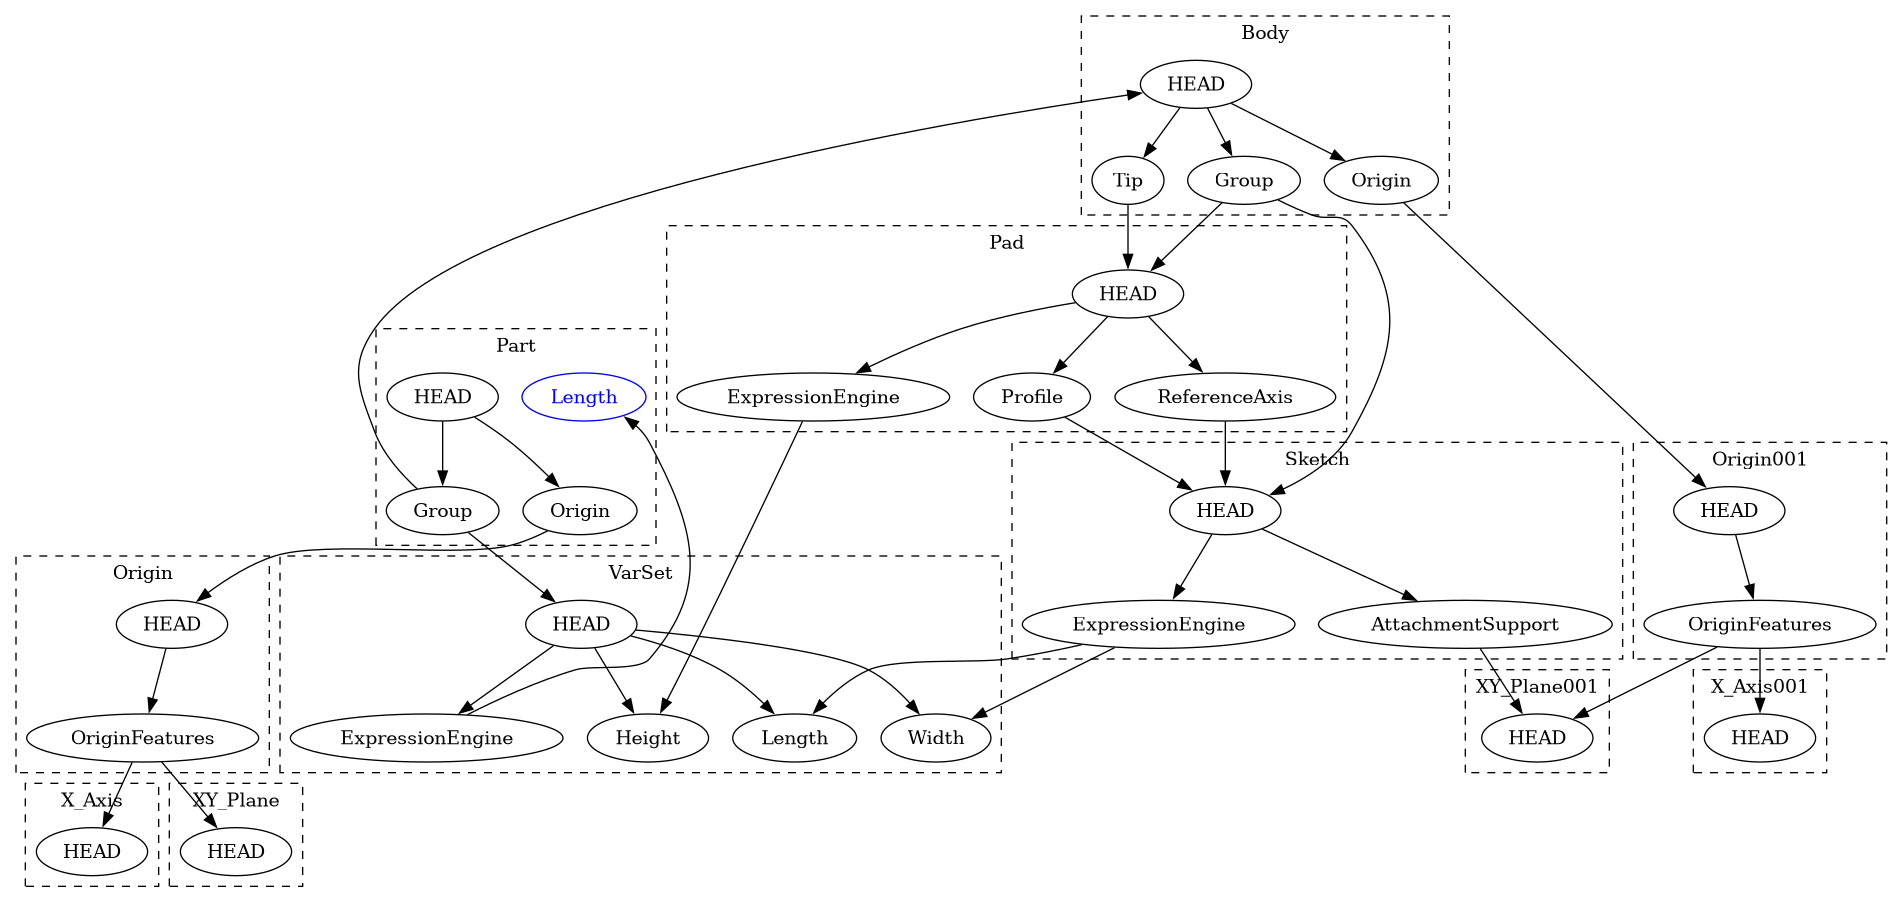
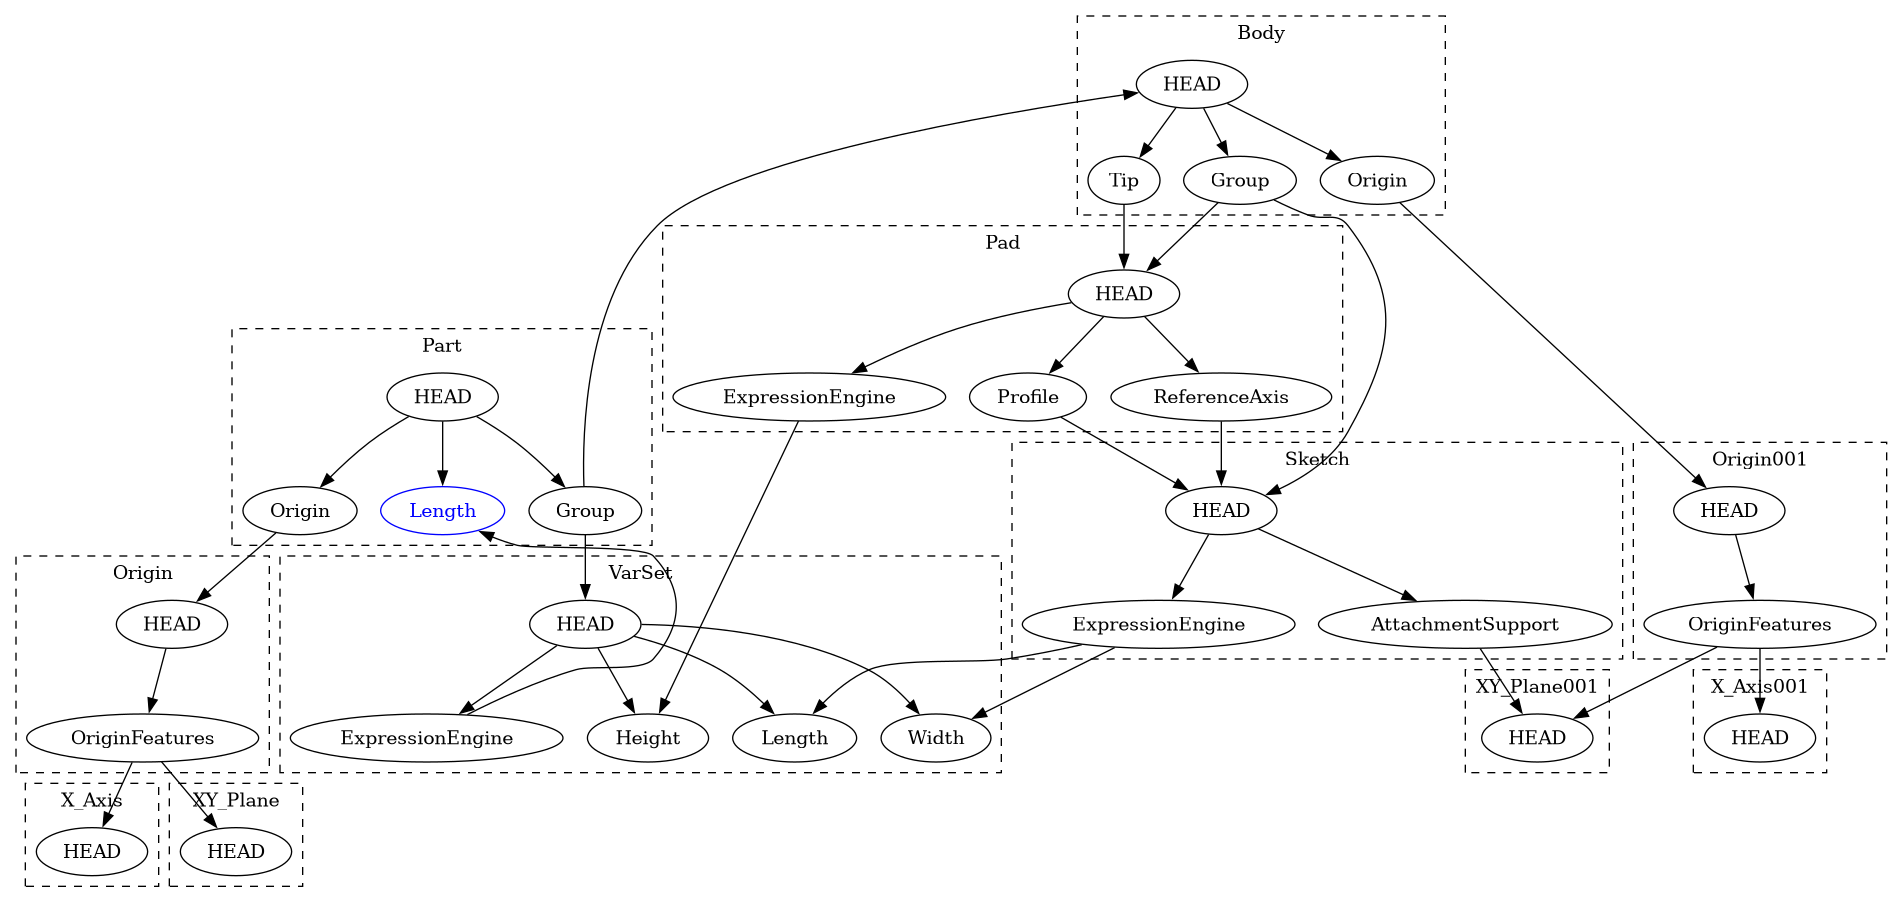
Include separation of concerns input/exposed props
A point of discussion was whether exposed properties should have two
roles: 1) allowing references from a dependent object and 2) defining
the interface for creating variants.  The overall consensus was that we
should separate these concerns.  This update reflects that by
introducing "true" input properties.

diff --git a/FEPs/FEP-0010-variant-parts/README.md b/FEPs/FEP-0010-variant-parts/README.md
@@ -5,9 +5,9 @@
 | Type           | Core Change                                                                                                      |
 | Status         | Proposed                                                                                                         |
 | Author(s)      | Pieter Hijma @pieterhijma                                                                                        |
-| Version        | 1.0                                                                                                              |
+| Version        | 1.1                                                                                                              |
 | Created        | 2025-09-23                                                                                                       |
-| Updated        | 2025-10-10                                                                                                       |
+| Updated        | 2025-11-08                                                                                                       |
 | Discussion     | [💬 Discussion FEP-0010: Variant Parts](https://github.com/FreeCAD/FreeCAD-Enhancement-Proposals/discussions/31) |
 | Implementation | n/a                                                                                                              |
 
@@ -30,7 +30,7 @@ parametric part with the following properties:
 
 In FreeCAD, it is virtually impossible to create parts with these properties.
 As a result, in FreeCAD, parametric design is limited.  It is not possible to
-reuse or exchange parts independently, and as such, parametric parts are not
+ reuse or exchange parts independently, and as such, parametric parts are not
 modular (see these videos [[1](#ref1)]).  This modularity in parametric designs
 is important because since FreeCAD is an open source application, seamless
 sharing and exchange of parts should be central to FreeCAD's mission.
@@ -166,8 +166,8 @@ property accesses and redirects these to temporary data structures.  A benefit
 of this system is that it gives FreeCAD support for variants at a very low
 level and only one mechanism is needed.  Additionally, this system has the
 potential to be used for concurrency because reads and writes can be captured
-temporarily.  A drawback of this approach is that each property type with each
-property access needs to be touched.
+temporarily.  A drawback of this approach is that the code of each property
+type with each property access needs to be touched.
 
 ### Chosen directions
 
@@ -199,9 +199,9 @@ maintaining copies are avoided.
 
 ## Specification
 
-In this section we provide the specification for variant parts with exposed
-properties, property intercepts, and providing the full subtree.  The exposed
-properties have the following goals:
+In this section we provide the specification for variant parts with
+fine-grained dependency checking, property intercepts, and providing the full
+subtree.  Fine-grained dependency checking has the following goals:
 1. Allow users to avoid cyclic dependencies without requiring the use of hidden
    references.
 2. Capture the design intent for parametric design.
@@ -210,7 +210,7 @@ properties have the following goals:
    some cases.
 
 Property intercepts allows us to act at a very low level of property access,
-ensuring that variant parts is supported by FreeCAD's core and avoiding full
+ensuring that variant parts are supported by FreeCAD's core and avoiding full
 copies that require complex administration.
 
 Subtree-based variants allow users to access the full subtree of the variants.
@@ -223,37 +223,42 @@ finally we discuss backward compatibility issues.
 
 ### User Perspective
 
-The user obtains a new type of property, namely **exposed properties**,
-properties that have a status flag "exposed".  Marking properties as exposed in
+The user obtains two new property types, namely **input properties**,
+properties that have a status flag "input" and **exposed properties**,
+properties that have a status flag "exposed".  Marking properties as input in
 obj $o$ ensures that these properties can be referenced within objects that are
-dependent on $o$ without introducing cyclic dependencies.  You can consider
-those properties to be outside of the object.  This eliminates the use of
-hidden references for the purpose of creating variants.
+dependent on $o$ without introducing cyclic dependencies.  Input properties
+should not be modified during recomputation of a document object.  Having input
+properties eliminates the need to create hidden references for the purpose of
+creating variants.
 
-The set of exposed properties define what I call the **Application Geometry Interface** [[3](#ref3)],
-the interface for geometry that defines how a part should be
-parameterized.  The Application Geometry Interface captures design intent in
-the context of parametric design.
+Only input properties can be exposed properties.  The set of exposed properties
+define the **Exposed Property Interface**, properties that define how a part
+should be parameterized for variants (previously called "Application Geometry
+Interface" [[3](#ref3)]).  The Exposed Property Interface captures design
+intent in the context of parametric design.
 
 In addition, links become aware of exposed properties.  The exposed properties
 are incorporated in the link and marked clearly as exposed.  Changing one of
 the exposed properties automatically creates a variant of the object that is
-linked to.
+linked to and only this variant will be changed.  In contrast, changing an
+input property of the variant or any other internal properties will change all
+variants of that part.
 
 Finally, the user will experience improved recomputes where a change of
 property $p$ in an object $o$ does not trigger recomputes for all objects that
 depend on $o$, but only the ones that depend on $p$:
 
-Given $n$ objects $o_1, \dots, o_n$ that depend an object $q$ by means of
+Given $n$ objects $o_1, \dots, o_n$ that depend on object $q$ by means of
 properties $p_1, \dots, p_n$ in $q$ where $x \in \lbrace 1,2,\dots,n \rbrace$ and
 $o_x$ only refers to $p_x$ and $p_x$ is only referred to by $o_x$, then
-changing one property $p_x$ of the set $\lbrace p_1, \dots, p_n \rbrace$ only recomputes $o_x$.
+changing a property $p_x$ of the set $\lbrace p_1, \dots, p_n \rbrace$ only recomputes $o_x$.
 
 ### Developer perspective
 
 From the viewpoint of the developer, dependency checking is changed, FreeCAD
-acquires exposed properties, a new extension to document objects is introduced,
-and the link code is adapted to exposed properties.
+acquires input and exposed properties, a new extension to document objects is
+introduced, and the link code is adapted to exposed properties.
 
 #### Dependency checking
 
@@ -277,33 +282,29 @@ is defined by the following relation:
    is a property of $o$, then $(x, y) \in E$ with the following exceptions:
    1. $y$ is an output property.
 3. If $x \in V$ and $y \in V$, $x = \text{ HEAD}$, $x$ represents object $o$,
-   and $y$ is an output property $o$, then $(y, x) in E$.
+   and $y$ is an output property $o$, then $(y, x) \in E$.
 
 In FreeCAD $G$ should be acyclic to be able to do recomputes and a cycle is
 considered an erroneous state.
 
-#### Exposed properties
+#### Input properties
 
-Properties obtain a new status flag "Exposed" which indicates that a property
-can be considered outside of the object it is defined in.  To define this, we
-add a second exception to clause 2. of the $E$ relation defined above:
-ii. $y$ is an exposed property.
+Properties obtain a new status flag "Input" which indicates that a property
+only serves as input to the document object and should not be modified in the
+recompute phase.  More precisely, in the recompute phase, an input property may
+be written by the expression engine execute phase to make sure that the input
+properties have the correct value if they are based on expressions.  Then in
+subsequent phases, input properties must not be written, that is, (1) in the
+recompute phase of the document object that includes the execute phase and (2)
+in the second expression engine execute phase that updates the values of the
+output properties.
 
-Although this is sufficient to properly define the relation for exposed
-properties, for the sake of clarity we can explicitly add the following clause
-without changing the relation:
-
-If $x \in V$ and $y \in V$, $x = \text{ HEAD}$, $x$ represents object $o$, $y$
-is a property of $o$, and $y$ is exposed, then $(x, y) \notin E$.  This allows
-objects that depend on $o$ to link to $y$ without introducing cycles.
-
-An example of a dependency graph is listed below from [[4](#ref4)]: The blue
-property is an exposed property and since HEAD does not have an edge to
-property Length, it is possible to link to Length from VarSet which depends on
-Part.
+An example of a dependency graph is listed below: The blue property is an input
+property and since HEAD has an edge to property Length of which we know for
+certain that Length cannot be modified by HEAD (so Length does not depend on
+HEAD), it is possible to link to Length from VarSet which depends on Part.
 
 ![](./assets/FEP-0010-property-deps.png)
-
 
 #### Variant Extension
 
@@ -380,13 +381,13 @@ An early specification with implementation exists for the idea of variant
 parts.  The **specification** focused on VarSets having a central role in
 defining the application programming interface in combination with `App::Part`.
 Both these objects would become "special" to support variants.  The
-specification of this is listed in issue #12531 [[5](#ref5)].  This idea is
+specification of this is listed in issue #12531 [[4](#ref4)].  This idea is
 rejected because it is not general enough.  Only `App::Part` objects with an
 exposed VarSet would become variants, while there are many other valid objects
 that may need to be variants.  An example is a simple cube that cannot contain
 a VarSet inside.
 
-The **implementation** is proposed in PR #12532 [[6](#ref6)].  This
+The **implementation** is proposed in PR #12532 [[5](#ref5)].  This
 implementation has been built on top of the existing logic of hidden
 references, rewriting expressions, and redirecting property access with adding
 special cases to object identifiers.  This implementation brought to light that
@@ -398,19 +399,19 @@ limitations, this implementation is rejected.
 ## Implementation
 
 A proof-of-concept has been created in the context of the FPA program "Research
-Variant Parts", the results of which are listed on the forum [[7](#ref7)].
+Variant Parts", the results of which are listed on the forum [[6](#ref6)].
 This proposal is a direct result of that project.  Other than what is proposed
-here, the proof-of-concept in PRs #18412, #19733, and #19735 [[8](#ref8),
-[9](#ref9), [10](#ref10)] has:
+here, the proof-of-concept in PRs #18412, #19733, and #19735 [[7](#ref7),
+[8](#ref8), [9](#ref9)] has:
 - the current dependency check with special cases as opposed to fine-grained dependency checks,
 - shape-based variants instead of subtree-based variants, and
 - property intercept has only been partially implemented (not for all
   properties).
 
 The implementation of this proposal will happen in two phases.  The first phase
-will focus on fine-grained recomputation and adding exposed properties.  The
-second phase will focus on adding property intercept, the variant extension,
-and adapting `App::Link`.
+will focus on fine-grained recomputation and adding input properties.  The
+second phase will focus on adding property intercept, exposed properties, the
+variant extension, and adapting `App::Link`.
 
 ### Phase 1: Fine-grained recomputation
 
@@ -418,24 +419,25 @@ The implementation will start with a simple test with a VarSet that has two
 properties `sizeCube1` and `sizeCube2` that drive the sizes of two simple cubes
 respectively.  Then changing the property `sizeCube1` should only cause the
 first cube to be marked for recomputation and not the second.  This test would
-currently fail in FreeCAD.  As of now, FreeCAD has not tests for recomputation,
+currently fail in FreeCAD.  As of now, FreeCAD has few tests for recomputation,
 but this implementation will provide a test suite for recomputation and
 dependency checking.
 
-For exposed properties, the flag `App::Property::Status::User4` will be changed
-to `App::Property::Status::Exposed`.  Please note that `User1`, `User2`, and
-`User3` are already in use for various purposes.  The exposed properties will
-be incorporated into the recomputation logic and tests will be provided for
-this as well.
+For input properties, the flag `App::Property::Status::User4` will be changed
+to `App::Property::Status::Input`.  Please note that `User1`, `User2`, and
+`User3` are already in use for various purposes.  The input properties will be
+incorporated into the recomputation logic and tests will be provided for this
+as well.
 
 ### Phase 2: Adding variant links
 
 The second phase will add the logic for acquiring variant links.  This is
-composed of adding property intercept, the variant extension, and incorporating
-the variant extension into `App::Link`.
+composed of adding property intercept, the variant extension, introducing a
+flag `App::Property::Status::Exposed` and incorporating the variant extension
+into `App::Link`.
 
 More background on **intercepting property access** can be found on the forum
-[[11](#ref11)].  A typical property access for a float property is listed below:
+[[10](#ref10)].  A typical property access for a float property is listed below:
 
 ```c++
 void PropertyFloat::setValue(double lValue)
@@ -480,7 +482,7 @@ change is local to the FreeCAD source and will work for any document object
 defined in any external workbench.
 
 The **variant extension** will be roughly like the one introduced in PR #19733
-[[9](#ref9)] in the form of `App::VariantExtension`.  On execution of a variant
+[[8](#ref8)] in the form of `App::VariantExtension`.  On execution of a variant
 extension, the extension will obtain a topologically sorted outlist of object
 $o$ of which this is a variant.  For each of these objects, a context will be
 created and pushed onto the stack for property intercept.  Then the object $o$
@@ -509,7 +511,8 @@ as well.
 
 ## Changelog
 
-- 1.0 (current) - Moved the proposal to proposed
+- 1.1 (current) - Separation of concerns between input and exposed properties
+- [1.0](https://github.com/pieterhijma/FreeCAD-Enhancement-Proposals/blob/f07841ca9c6228f6b1970d832b31f69482d13527/FEPs/FEP-0010-variant-parts/README.md) - Moved the proposal to proposed
 - [0.2](https://github.com/pieterhijma/FreeCAD-Enhancement-Proposals/blob/ecac8462b89132fea5c6ad49ee2edbb1f9041380/FEPs/FEP-0010-variant-parts/README.md) - Add a more precise definition of the dependency graph
 - [0.1](https://github.com/pieterhijma/FreeCAD-Enhancement-Proposals/blob/5b686e4103d64a53aecc9dd7105af5e672c1d3d7/FEPs/FEP-0010-variant-parts/README.md) - Initial version
 
@@ -518,14 +521,13 @@ as well.
 1. <span name=ref1>Two videos explaining modularity problems in FreeCAD designs</span>: <https://github.com/FreeCAD/FreeCAD/pull/12532#issuecomment-1956491941>
 2. <span name=ref2>Forum post with videos of the 4 alternatives</span>: <https://forum.freecad.org/viewtopic.php?p=786692&sid=3e7a311d0f05b2f10697de4128d9b33f#p786692>
 3. <span name=ref3>Forum post with video on an interface for geometry</span>: <https://forum.freecad.org/viewtopic.php?p=788072#p788072>
-4. <span name=ref4>Forum post with new dependency representation</span>: <https://forum.freecad.org/viewtopic.php?p=795719#p795719>
-5. <span name=ref5>Specification of exposing properties VarSets in App::Part</span> <https://github.com/FreeCAD/FreeCAD/issues/12531>
-6. <span name=ref6>PR #12532: Core: Enable exposing VarSets in App::Part</span>
-7. <span name=ref7>Forum post with the results of "Research Variant Parts"</span>: <https://forum.freecad.org/viewtopic.php?p=814501#p814501>
-8. <span name=ref8>PR #18412, Core: Allow exposing properties</span>: <https://github.com/FreeCAD/FreeCAD/pull/18412>
-9. <span name=ref9>PR #19733, Core: Compute shapes for variants</span>: <https://github.com/FreeCAD/FreeCAD/pull/19733>
-10. <span name=ref10>PR #19735, Gui: Add Part variant logic</span>: <https://github.com/FreeCAD/FreeCAD/pull/19735>
-11. <span name=ref11>Forum post with background on property intercept</span>: <https://forum.freecad.org/viewtopic.php?p=812491#p812491>
+4. <span name=ref4>Specification of exposing properties VarSets in App::Part</span> <https://github.com/FreeCAD/FreeCAD/issues/12531>
+5. <span name=ref5>PR #12532: Core: Enable exposing VarSets in App::Part</span>
+6. <span name=ref6>Forum post with the results of "Research Variant Parts"</span>: <https://forum.freecad.org/viewtopic.php?p=814501#p814501>
+7. <span name=ref7>PR #18412, Core: Allow exposing properties</span>: <https://github.com/FreeCAD/FreeCAD/pull/18412>
+8. <span name=ref8>PR #19733, Core: Compute shapes for variants</span>: <https://github.com/FreeCAD/FreeCAD/pull/19733>
+9. <span name=ref9>PR #19735, Gui: Add Part variant logic</span>: <https://github.com/FreeCAD/FreeCAD/pull/19735>
+10. <span name=ref10>Forum post with background on property intercept</span>: <https://forum.freecad.org/viewtopic.php?p=812491#p812491>
 
 ## License / Copyright
 
